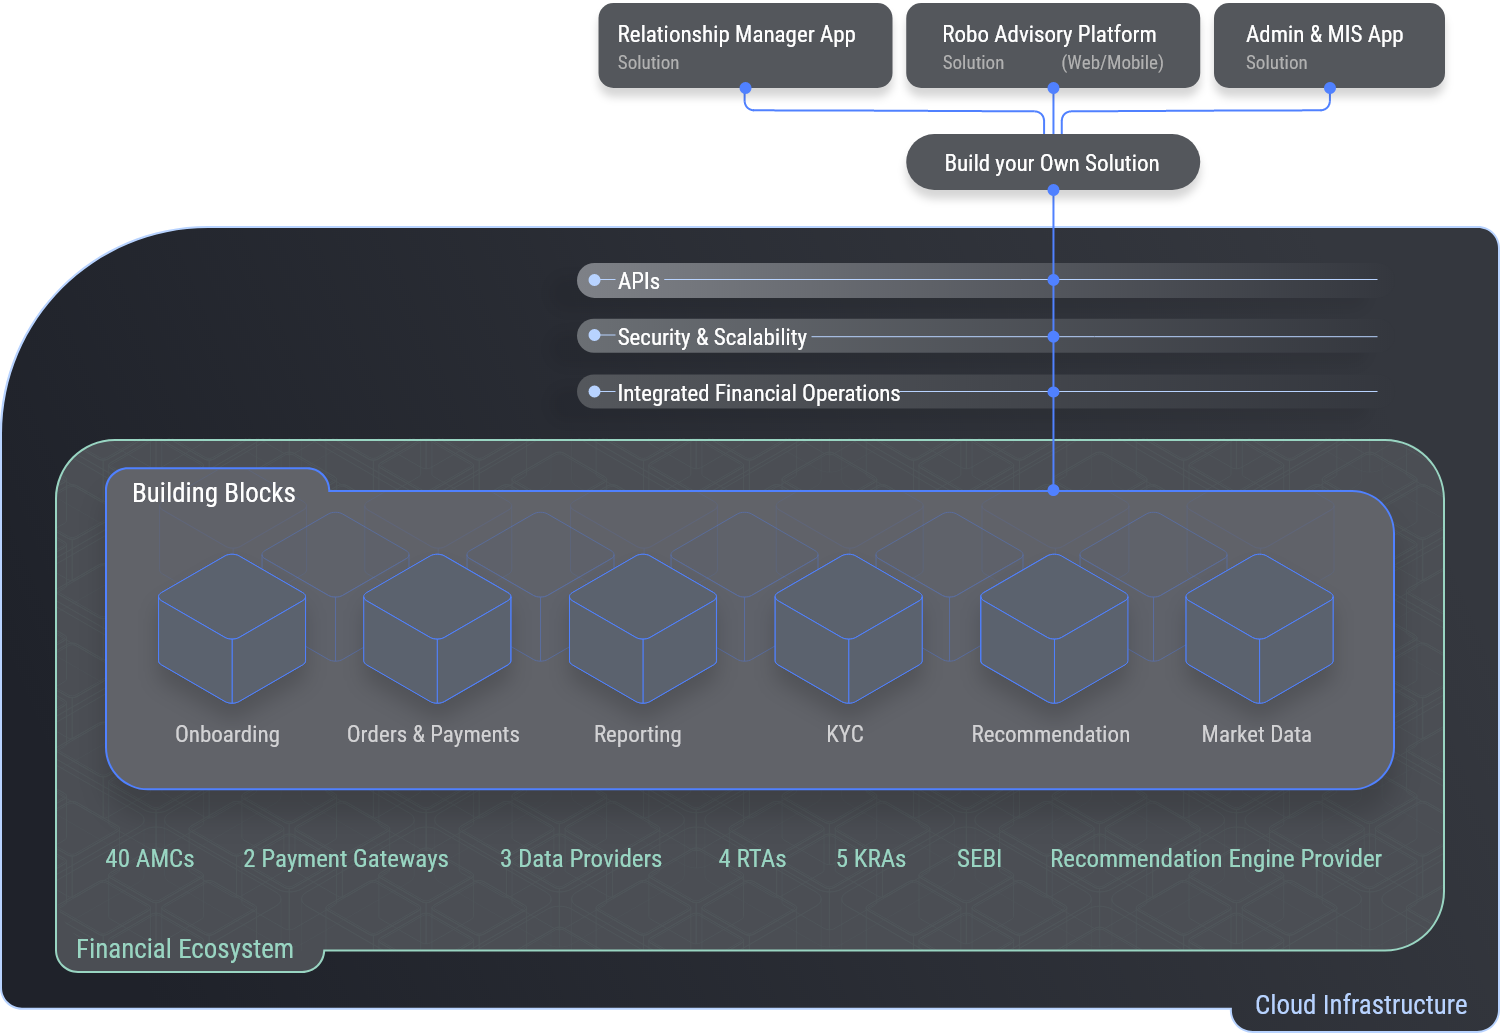
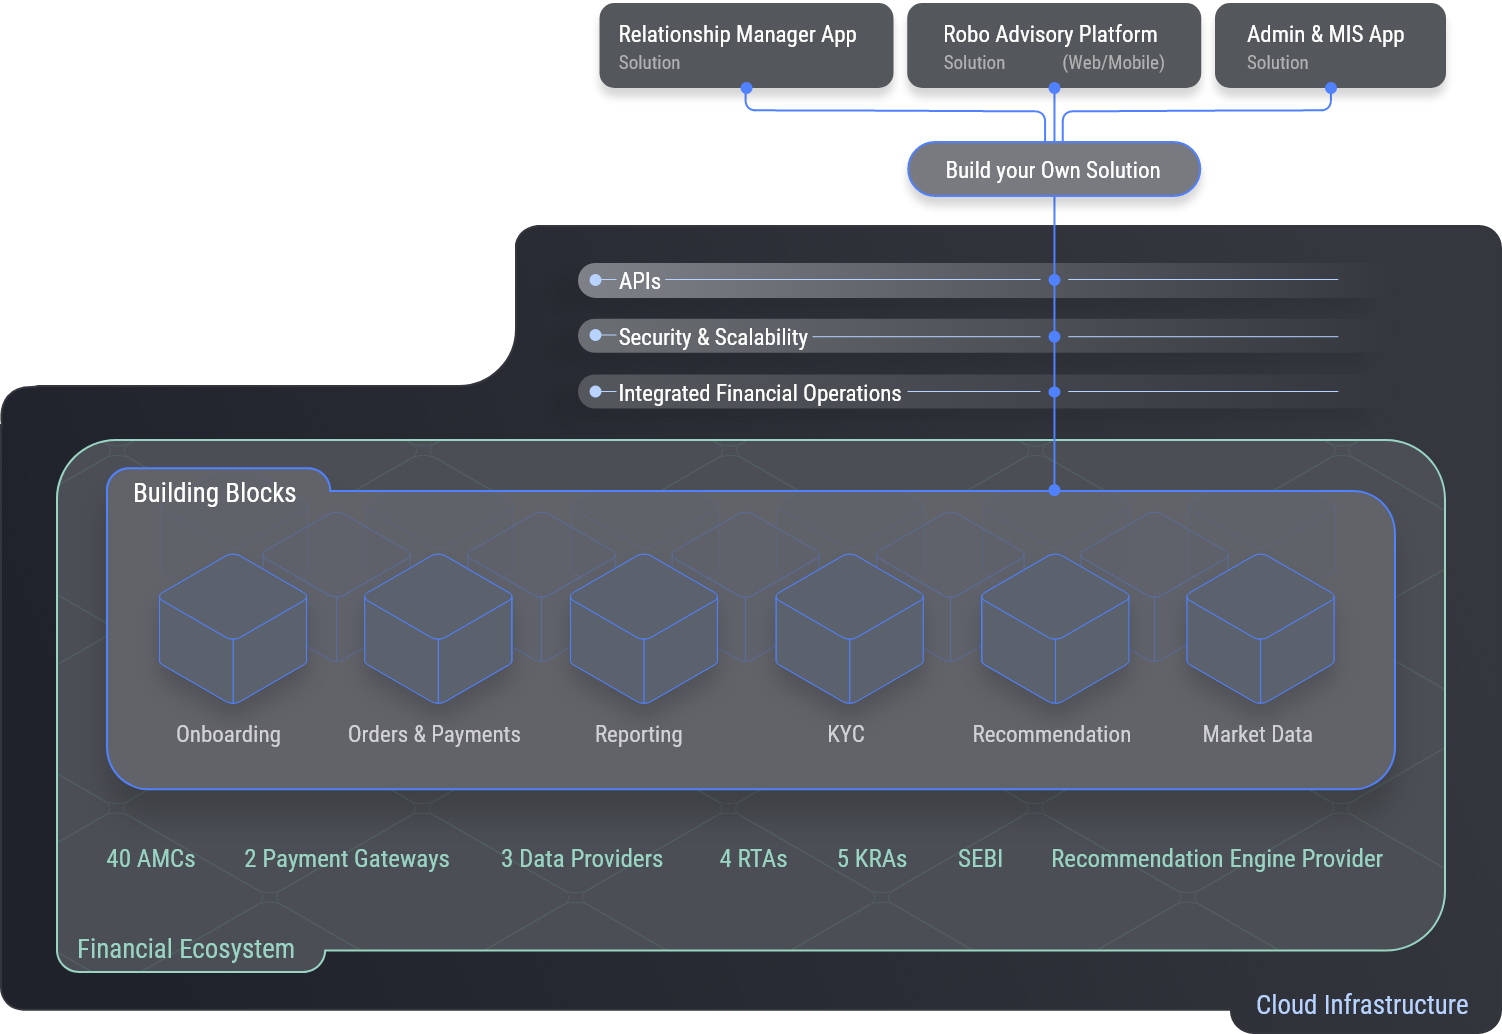
fp diagrams updated

diff --git a/content/index.md b/content/index.md
@@ -56,7 +56,7 @@ You can access all the FP services via APIs ([FPDocs, documentation](https://fin
 ### Platform as a Service
 <br>
 <div>
-  <img src="../../images/fp_diagram_updated.png" height="500px" width="900px" alt="Fintech Primitives PaaS" class="block dark:hidden">
+  <img src="../../images/fp_diagram_light.png" height="500px" width="900px" alt="Fintech Primitives PaaS" class="block dark:hidden">
   <img src="../../images/fp_diagram_dark.png" height="500px" width="900px" alt="Fintech Primitives PaaS" class="hidden dark:block">
 </div>
 
